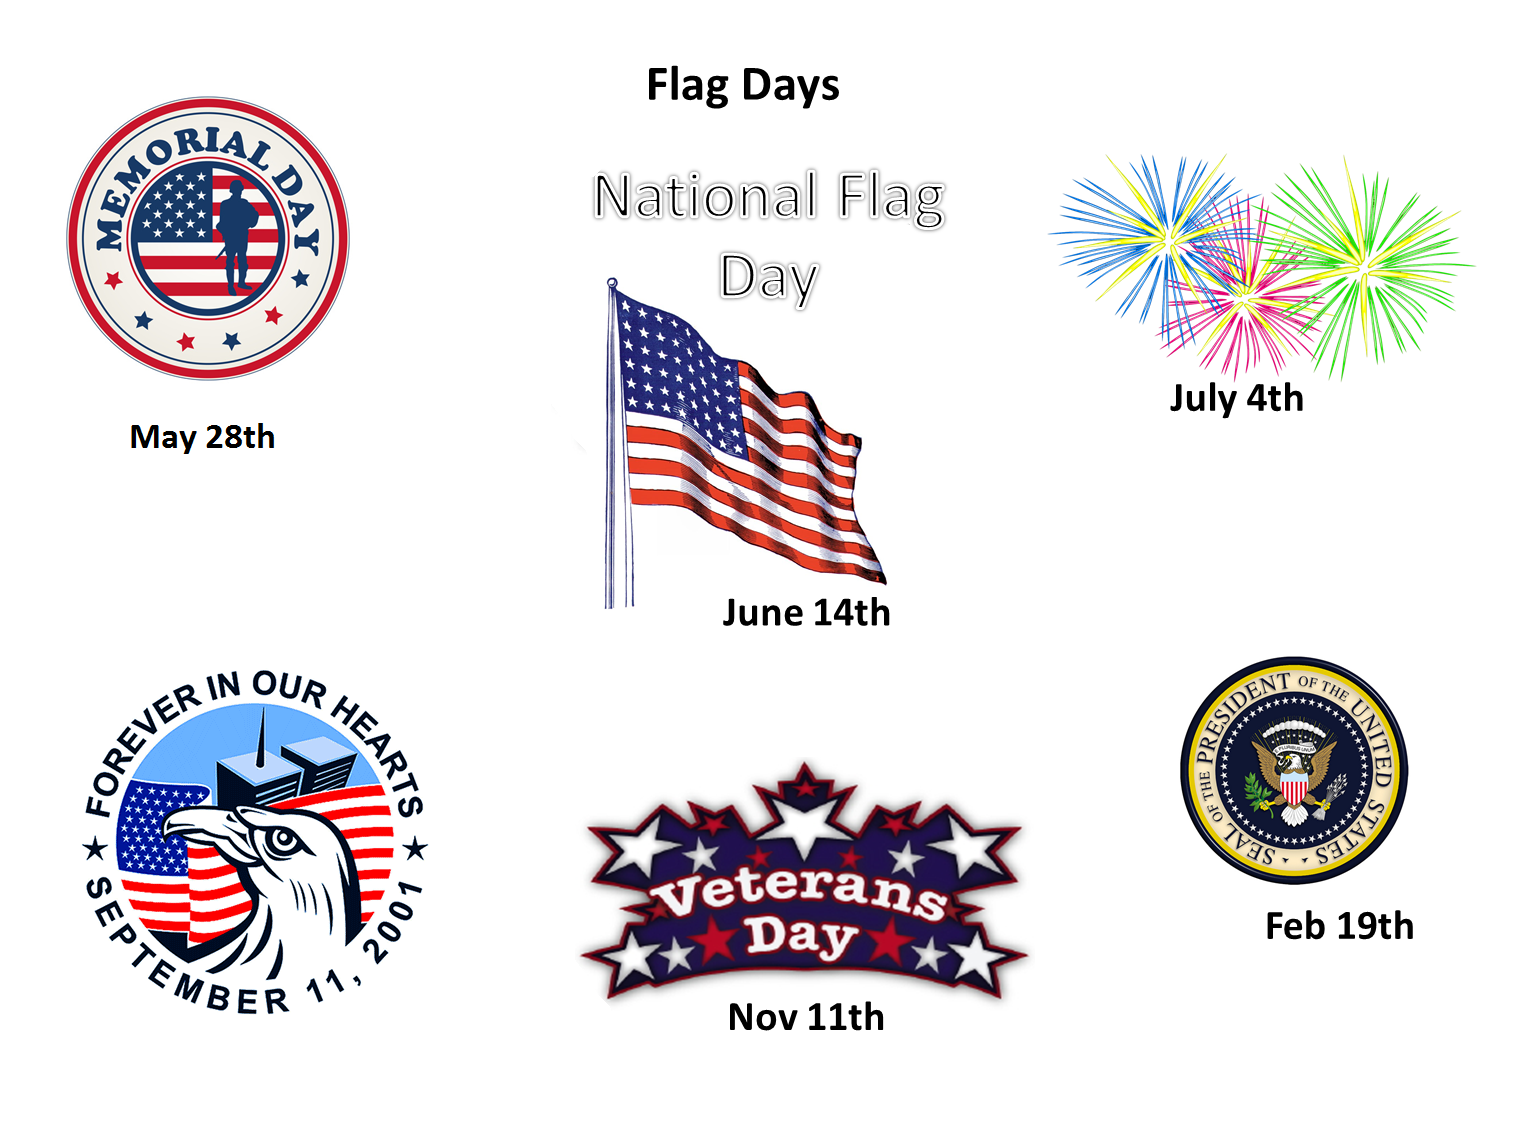
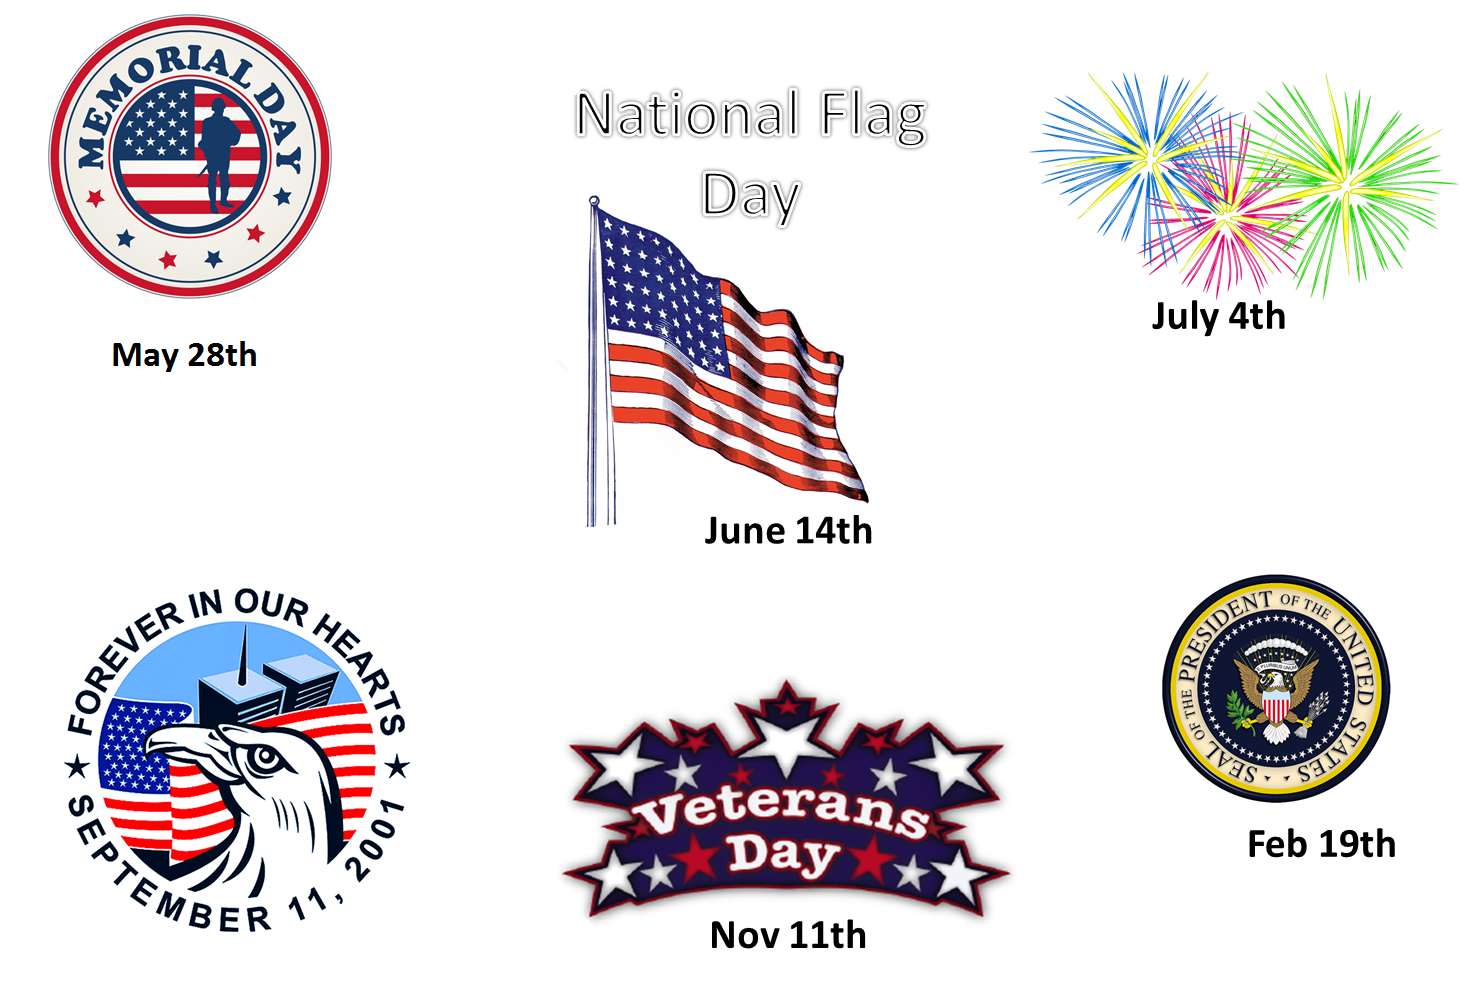
changed flag day pic

diff --git a/index.html b/index.html
@@ -18,17 +18,24 @@
 	</div>
 	<div class="info">
 		<h2>What is the Flag Service?</h2>
-		<p>We will plant a flag outside your home 6 DAYS A YEAR for $40
+		<p>We will plant a flag outside your home 6 DAYS A YEAR for $40</p>
 
-Unless otherwise noted below, the flag will go in the area of grass directly across from your mailbox on the other side of the sidewalk from your front lawn.
-
-Already have a flag? Purchase this service  for a neighbor and put their address down below as well as marking so on the question indicated.
-
-Your help is greatly appreciated!
- 
-If you have questions, comments, or concerns you may contact Ella Kinney directly at ellakinney716@gmail.com
-		</p>
-		<!-- <img src="Flags pic.png" id="days"> -->
+		<h3>Flag Holidays</h3>
+		<img src="Flags Pic.png" id="flagDays">
+	<p>
+	Unless otherwise noted below, the flag will go in the area of grass directly across from your mailbox on the other side of the sidewalk from your front lawn.
+	</p>
+	<h3>Already have a flag? </h3>
+	<p>
+	Purchase this service  for a neighbor and put their address down below as well as marking so on the question indicated.
+	</p>
+	<p>
+	Your help is greatly appreciated!
+	</p>
+	<h3>Questions?</h3>
+	<p>
+	If you have questions, comments, or concerns you may contact Ella Kinney directly at ellakinney716@gmail.com or by calling at (214)-770-3185
+	</p>
 	</div>
 	</center>
 	

diff --git a/style.css b/style.css
@@ -19,8 +19,7 @@ h3{
 	height:60px;
 	width:100%;
 }
-#days{
-	height:100%;
+#flagDays{
 	width:80%;
 }
 #flag{
